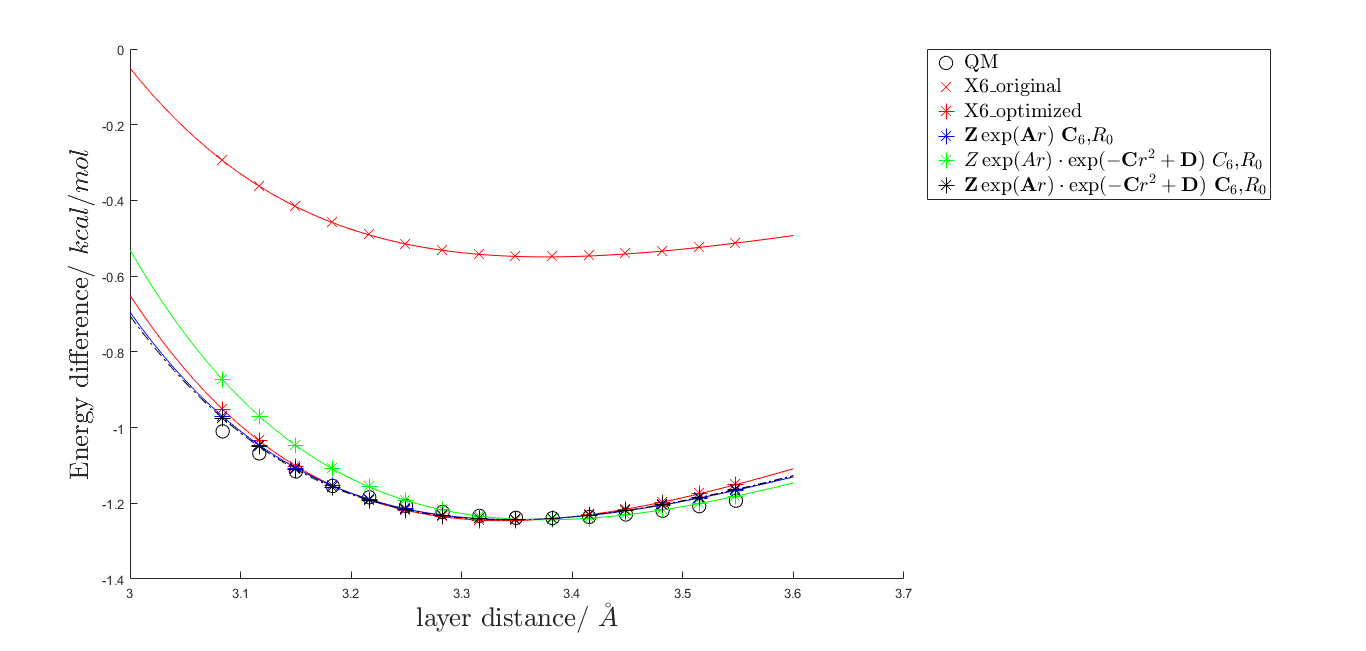
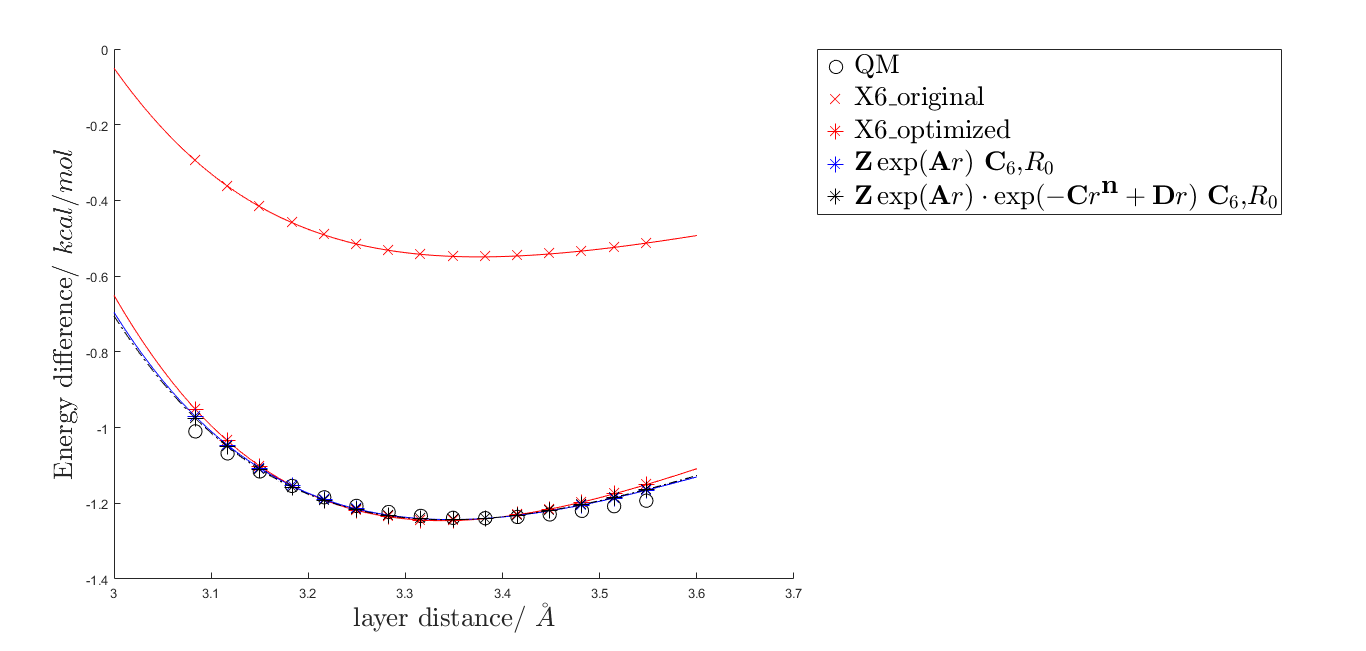
update plot

diff --git a/data/potential.m b/data/potential.m
@@ -77,28 +77,48 @@ disp(betaf);
 %%% potential VOP
 
 
-y2 = standardLGpart([1704.95, 3.85], rr); % DEBUG
+y2 = standardLGpart([684.95, 3.85], rr); % DEBUG
+
 value1 = X6poten((beta0), 1) % the lowest energy for X6 potential
-value2 = standardLGpart([1704.95, 3.85], 3.7934) % attractive energy for standard LG part
+value2 = standardLGpart([1601.1619, 3.85], 3.7934) % attractive energy for standard LG part
 yNB = fitFUNC1(betaf, rr);
-plot(rr, yNB, 'g.-');
-plot(rr, y2, 'r-.'); % DEBUG
+plot_fit = plot(rr, yNB, 'g.-');
+test1 = plot(rr, y2, 'r-.'); % DEBUG
+
+
+y2 = standardLGpart([1601.1619, 3.85], rr); % DEBUG
+test2 = plot(rr, y2, 'r--'); % DEBUG
 % test = standardLGpart([684.95, 3.85], 3.5)
 
 plot(xlim, [0 0], 'k --');
-plot(xlim, [value1 value1], 'k-');
-plot(xlim, [value2 value2], 'k-');
+plot(xlim, [value1 value1], 'k--');
+plot(xlim, [value2 value2], 'k--');
 
-plot([3.7934 3.7934], ylim, 'k-');
-
-
+plot([3.7934 3.7934], ylim, 'k--');
 
 
+h = legend([plotX6,...
+    plotX6NB, ...
+    plot_fit, ...
+    test1, ...
+    test2], ...
+    'X6', ...
+    'X6NB', ...
+    '$$Z\exp(Ar)$$', ...
+    'LG part:original $$C_6$$', ...
+    'LG part:optimizd $$C_6$$');
+set(h,'interpreter','latex');
+set(h, 'fontsize', 20);
 
+h = xlabel('layer distance/ $\AA$');
+set(h,'interpreter','latex');
+set(h, 'fontsize', 20);
+set(h, 'fontweight', 'bold');
 
-h = legend([plotX6, plotX6NB], 'X6', 'X6NB');
-
-% value = X6Spoten(beta1, 1)
+h = ylabel('Energy difference/ $kcal/ mol$');
+set(h,'interpreter','latex');
+set(h, 'fontsize', 20);
+set(h, 'fontweight', 'bold');
 
 %axis([3 6 -0.1 0.1]);
 

diff --git a/data/two_body.m b/data/two_body.m
@@ -28,27 +28,27 @@ yy = spline(CC,X6_optimized,xx); plot(xx, yy, '-r');
 plotEXP1_optimized = plot(CC , EXP1_optimized, 'b*','MarkerSize',10);
 yy = spline(CC,EXP1_optimized,xx); plot(xx, yy, 'b-');
 
-plotEXP2_optimized = plot(CC , EXP2_optimized, 'g*','MarkerSize',10);
-yy = spline(CC,EXP2_optimized,xx); plot(xx, yy, 'g-');
+% plotEXP2_optimized = plot(CC , EXP2_optimized, 'g*','MarkerSize',10);
+% yy = spline(CC,EXP2_optimized,xx); plot(xx, yy, 'g-');
 
 plotEXPfull_optimized = plot(CC , EXPfull_optimized, 'k*','MarkerSize',10);
 yy = spline(CC,EXPfull_optimized,xx); plot(xx, yy, 'k-.');
 h = legend([plotQM, ... 
     plotX6_original, plotX6_optimized, ... 
     plotEXP1_optimized, ...
-    plotEXP2_optimized, ...
     plotEXPfull_optimized], ...
     'QM', ...
     'X6\_original', 'X6\_optimized', ...
     '$$\textbf{Z}\exp(\textbf{A}r)$$    $$\textbf{C}_6$$,$$R_0$$', ...
-    '$$Z\exp(Ar)\cdot\exp(-\textbf{C}r^2+\textbf{D})$$   $$C_6$$,$$R_0$$', ...
-    '$$\textbf{Z}\exp(\textbf{A}r)\cdot\exp(-\textbf{C}r^2+\textbf{D})$$   $$\textbf{C}_6$$,$$R_0$$' ...
+    '$$\textbf{Z}\exp(\textbf{A}r)\cdot\exp(-\textbf{C}r^\textbf{n}+\textbf{D}r)$$   $$\textbf{C}_6$$,$$R_0$$' ...
     );
 %     plotX6S_original, plotX6S_optimized,
 %     plotLJ_original, plotLJ_optimized
 %     'X6S\_original', 'X6S\_optimized',
 %     'LJ\_original', 'LJ\_optimized',
-set(h, 'fontsize', 15);
+%     plotEXP2_optimized, ...
+%     '$$Z\exp(Ar)\cdot\exp(-\textbf{C}r^2+\textbf{D}r)$$   $$C_6$$,$$R_0$$', ...
+set(h, 'fontsize', 20);
 set(h, 'Location', 'BestOutside');
 set(h,'interpreter','latex');
 
